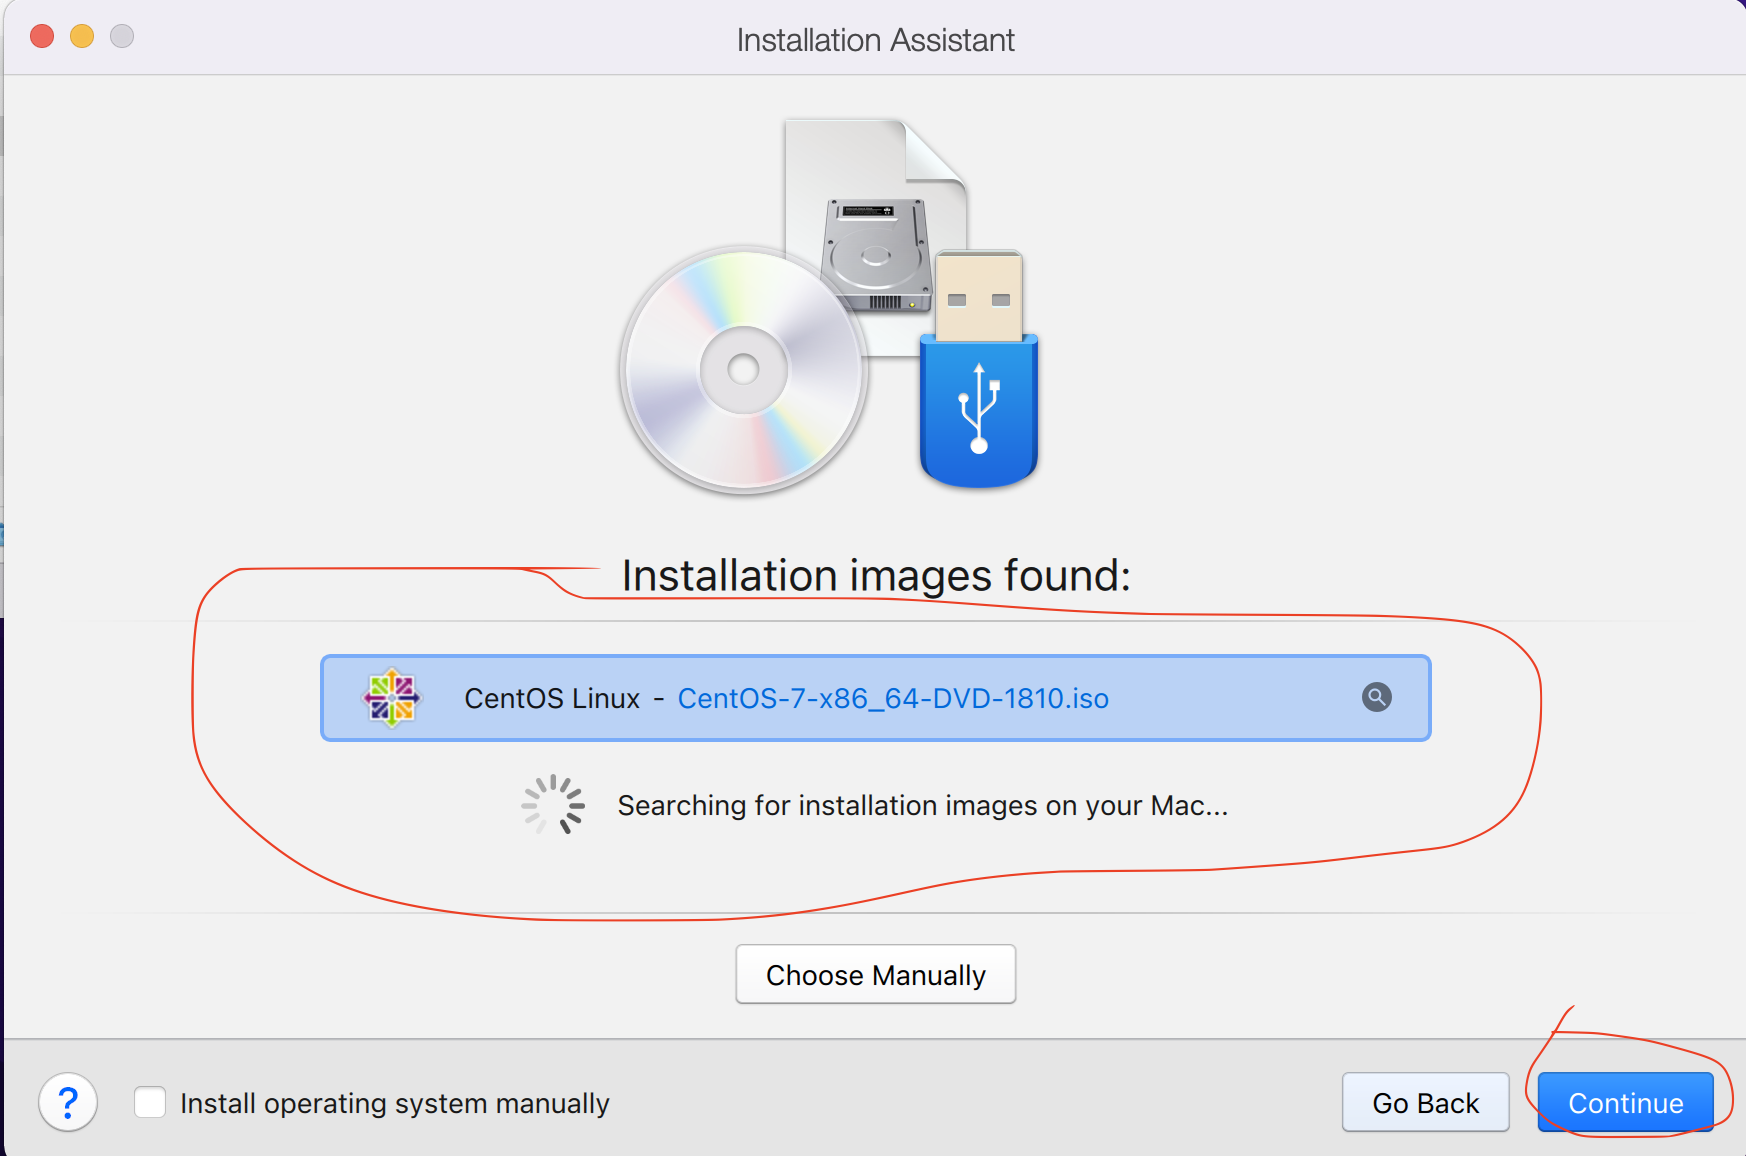
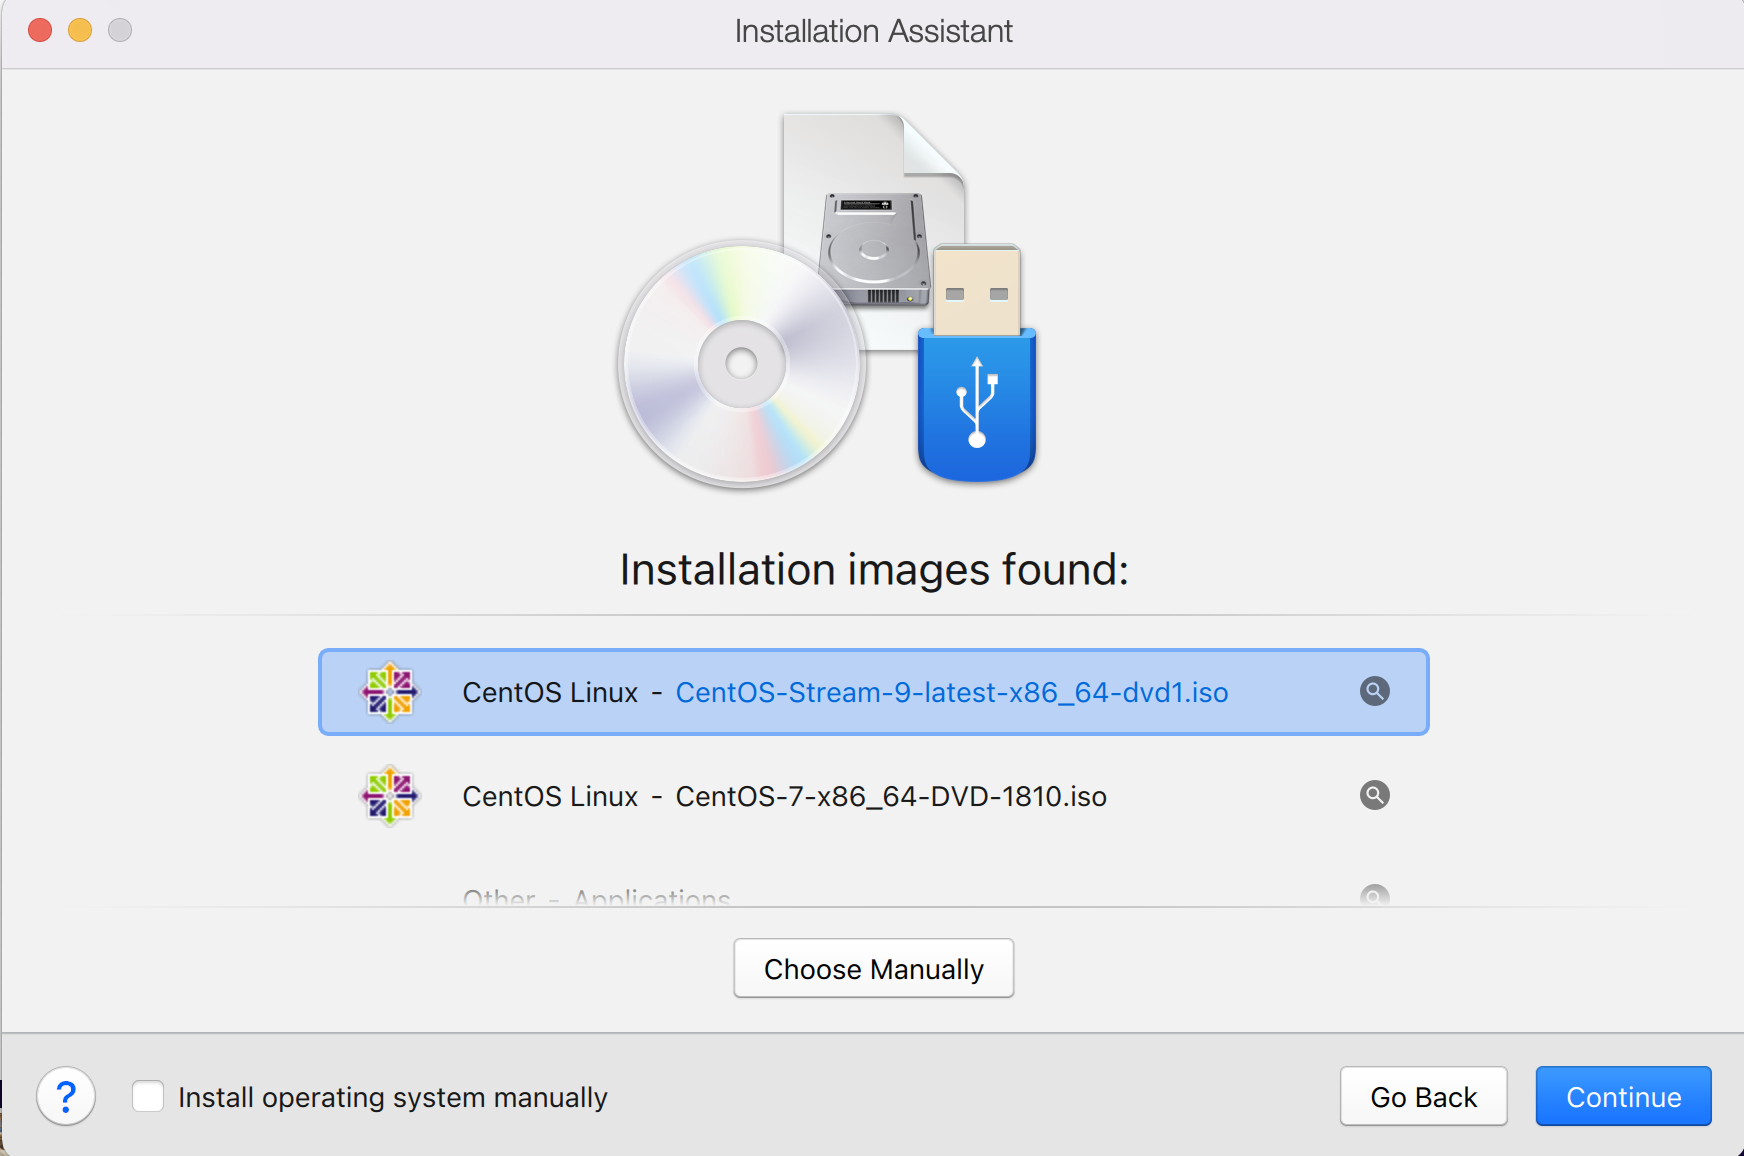
Deployed 91802b5 with MkDocs version: 1.4.3

diff --git a/docs/Labs/parallels/index.html b/docs/Labs/parallels/index.html
@@ -394,8 +394,17 @@
 <p>Step 3. Choose installation from DVD or image file</p>
 <p><img src="../img/par-5.png" /></p>
 <p>Step 4. Installation Assistant tries to find any images (.iso files) on Laptop for your choosing</p>
-<p>Step 5. Choose first one with name <strong>CentOS-7-x86_64-DVD-1810.iso</strong></p>
+<p>Step 5. Choose first one with name <strong>CentOS-Stream-9-latest-x86_64-dvd1.iso</strong></p>
 <p><img src="../img/par-6.png" /></p>
+<details class="note" open="open">
+<summary>Note</summary>
+<p>There many different Linux distributives like:
+ - CentOS (freeware version of RHEL)
+ - RHEL(Red Hat Enterprise Linux)
+ - Debian
+ - Ubuntu
+ - etc</p>
+</details>
 <p>Step 6. Define new user for new Linux VM</p>
 <p>It will be user which can login to our VM and do some actions</p>
 <div class="highlight"><pre><span></span><code>User Name: user1
@@ -418,8 +427,25 @@ Verify Password: password1
 <p><img src="../img/par-9.png" /></p>
 <p>Step 9. Allocate 1 CPU and and 1024 MB RAM and close such window</p>
 <p><img src="../img/par-10.png" /></p>
-<p>Step 10. Run Installation</p>
+<p>Step 10. Start VM initialization</p>
 <p><img src="../img/par-11.png" /></p>
+<p>Step 11. Run Linux installation</p>
+<p>On the appearing screen choose  by arrows buttons first option <strong>Install CentOS 7</strong> and press ENTER</p>
+<p><img src="../img/par-12.png" /></p>
+<details class="note" open="open">
+<summary>Note</summary>
+<p>Once you click on installation screen your cursor will be locked, to release it press CONTROL+OPTIONS on a keyboard</p>
+</details>
+<p>Step 12. Wait about 10-15 minutes until Linux is installed</p>
+<p>During this process installer installs packages and configures various parameters for Linux Operation system like Language, user(which we specify above), network settings.</p>
+<details class="note" open="open">
+<summary>Note</summary>
+<p>Once installed you can find your VM file here <strong>/Users/<your user>/Parallels</strong>.</p>
+<p>*.pvm is Parallels file extensing which means that it is VM is created by Parallels Hypervisor.</p>
+</details>
+<p><img src="../img/par-13.png" /></p>
+<p><img src="../img/par-14.png" /></p>
+<p>After that installation, VM will reboot and you will see *<em>terminal with login page</em></p>
 
 
 
